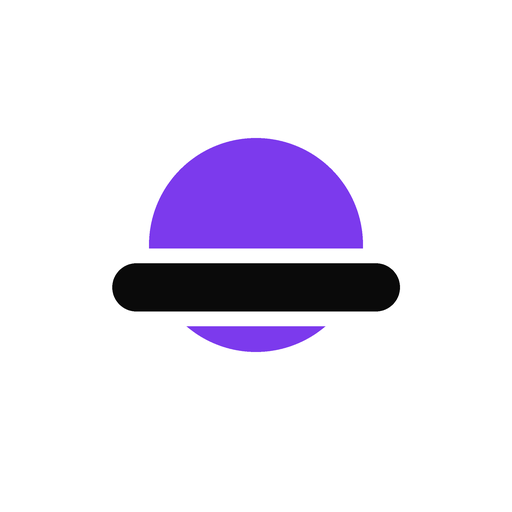
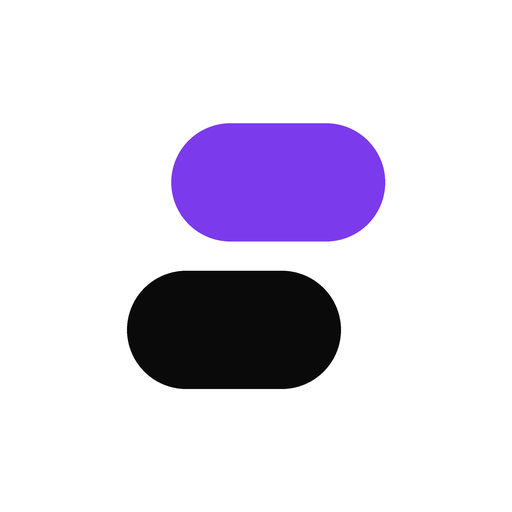
brand: new two-layers mark
Two offset pills forming an abstract S (violet request in, black reply out),
replacing the sun-behind-the-bar. Generated by scripts/make_brand_assets.py;
favicons, app icons, social card, logos and extension icons regenerated.
The light logo uses a white lower pill on dark backgrounds.

Changed region(s): [[0.2188, 0.2188, 0.7812, 0.7812]]

diff --git a/scripts/make_brand_assets.py b/scripts/make_brand_assets.py
@@ -39,10 +39,11 @@ WHITE = "#FFFFFF"
 
 FONT_STACK = "'Google Sans', 'Segoe UI', Inter, system-ui, -apple-system, Roboto, Arial, sans-serif"
 
-# Geometry in a 100-unit box.
-SUN_C, SUN_R = (50, 47), 29  # full disc; the bar hides a band of it
-BAR = (11, 52, 89, 65)  # pill wider than the sun (height 13, radius 6.5)
-GAP = 4  # clear space between the bar and the visible parts of the sun
+# Geometry in a 100-unit box. The "two layers" mark (Oct 2026): two offset pills forming an
+# abstract S. The violet pill is the request guarded on the way in, the black one the reply
+# on the way out. (x0, y0, x1, y1); each pill is 58 x 32 with fully round ends.
+TOP = (27, 14, 85, 46)
+BOTTOM = (15, 54, 73, 86)
 BRACKET_W = 9
 
 
@@ -51,18 +52,15 @@ BRACKET_W = 9
 # --------------------------------------------------------------------------
 
 
-def mark_body(x: float = 0, y: float = 0, s: float = 100, uid: str = "m") -> str:
+def mark_body(x: float = 0, y: float = 0, s: float = 100, bottom: str = GREEN) -> str:
+    """The two-layers mark. GREEN names the dark pill (ink), SAFFRON the violet one."""
     k = s / 100
-    cx, cy = SUN_C
-    x0, y0, x1, y1 = BAR
-    return (
-        f'<g transform="translate({x} {y}) scale({k})">'
-        f'<defs><clipPath id="{uid}"><rect x="0" y="0" width="100" height="{y0 - GAP}"/>'
-        f'<rect x="0" y="{y1 + GAP}" width="100" height="{100 - y1 - GAP}"/></clipPath></defs>'
-        f'<circle cx="{cx}" cy="{cy}" r="{SUN_R}" fill="{SAFFRON}" clip-path="url(#{uid})"/>'
-        f'<rect x="{x0}" y="{y0}" width="{x1 - x0}" height="{y1 - y0}" rx="{(y1 - y0) / 2}" fill="{GREEN}"/>'
-        "</g>"
+    pills = ((TOP, SAFFRON), (BOTTOM, bottom))
+    rects = "".join(
+        f'<rect x="{x0}" y="{y0}" width="{x1 - x0}" height="{y1 - y0}" rx="{(y1 - y0) / 2}" fill="{c}"/>'
+        for (x0, y0, x1, y1), c in pills
     )
+    return f'<g transform="translate({x} {y}) scale({k})">{rects}</g>'
 
 
 def saaf_body(x: float = 0, y: float = 0, s: float = 100) -> str:
@@ -95,7 +93,7 @@ def write_svgs() -> None:
     (BRAND / "safearly-mark.svg").write_text(svg(100, 100, mark_body(), "Safearly"), encoding="utf-8")
     (BRAND / "saaf-mark.svg").write_text(svg(100, 100, saaf_body(), "Saaf"), encoding="utf-8")
     for name, color in (("safearly-logo.svg", INK), ("safearly-logo-light.svg", WHITE)):
-        body = mark_body(0, 0, 56) + wordmark(62, 38, 32, "safearly", color)
+        body = mark_body(0, 0, 56, bottom=color) + wordmark(62, 38, 32, "safearly", color)
         (BRAND / name).write_text(svg(200, 56, body, "Safearly"), encoding="utf-8")
     lockup = saaf_body(0, 0, 56) + wordmark(62, 36, 30, "Saaf", INK) + wordmark(129, 36, 15, "by Safearly", GREY, 500)
     (BRAND / "saaf-lockup.svg").write_text(svg(220, 56, lockup, "Saaf by Safearly"), encoding="utf-8")
@@ -116,18 +114,9 @@ def _rgb(hex_: str, a: int = 255) -> tuple[int, int, int, int]:
 
 def draw_mark(img: Image.Image, x: float, y: float, s: float) -> None:
     k = s / 100
-    cx, cy = SUN_C
-    x0, y0, x1, y1 = BAR
-    sun = Image.new("RGBA", img.size, (0, 0, 0, 0))
-    sd = ImageDraw.Draw(sun)
-    sd.ellipse(
-        [x + (cx - SUN_R) * k, y + (cy - SUN_R) * k, x + (cx + SUN_R) * k, y + (cy + SUN_R) * k], fill=_rgb(SAFFRON)
-    )
-    sd.rectangle([x, y + (y0 - GAP) * k, x + s, y + (y1 + GAP) * k], fill=(0, 0, 0, 0))  # band behind the bar
-    img.alpha_composite(sun)
-    ImageDraw.Draw(img).rounded_rectangle(
-        [x + x0 * k, y + y0 * k, x + x1 * k, y + y1 * k], radius=(y1 - y0) / 2 * k, fill=_rgb(GREEN)
-    )
+    d = ImageDraw.Draw(img)
+    for (x0, y0, x1, y1), c in ((TOP, SAFFRON), (BOTTOM, GREEN)):
+        d.rounded_rectangle([x + x0 * k, y + y0 * k, x + x1 * k, y + y1 * k], radius=(y1 - y0) / 2 * k, fill=_rgb(c))
 
 
 def draw_saaf(img: Image.Image, x: float, y: float, s: float) -> None:

diff --git a/docs/brand.md b/docs/brand.md
@@ -7,16 +7,16 @@
 | First product | **Saaf** (साफ़, "clean"). On first mention write "Saaf by Safearly". Tagline *Clean prompts. Caught early.* |
 | Saaf one-liner | India-first PII masking and restore for LLM traffic. |
 
-## The mark: "the sun behind the bar"
+## The mark: "two layers"
 
-A violet sun, partly hidden behind a black rounded bar. (Until October 2026 the mark was a saffron sun behind a green bar; the shapes are unchanged.)
+Two offset pills that form an abstract S: a violet pill above and to the right, a black pill below and to the left.
 
-- **Sun = early.** It sits mostly above the bar, so it reads as rising.
-- **Bar = safe.** It is the redaction mask Saaf puts over a value. The sun is still recognisable behind it, the way a masked prompt is still useful to the model.
-- **A sliver of sun below the bar** shows it is *behind* the mask rather than resting on it. This is what makes the silhouette unique: not a hat, not a sunset icon.
-- Two shapes, two flat colours, no container. It reads at 16px and can be drawn from memory.
+- **Two layers = the product.** Safearly sits between an application and its models: the violet pill is the request guarded on the way in, the black one the reply on the way out.
+- **The offset = speed.** The layers step forward rather than stacking square, so the mark reads as motion, not a wall.
+- **The S** is there for Safearly without spelling it out.
+- Two shapes, two flat colours, no container. It reads at 16px and can be drawn from memory. On dark backgrounds the black pill turns white.
 
-Rejected alternatives, kept for the record: a sun resting on a bar (read as a hat, then as a burger), a striped retro sun (a common motif, and its stripes vanish below 32px), and a sunrise with rays (a generic weather icon).
+Earlier marks, kept for the record: a sun partly hidden behind a bar (saffron and green until Oct 2026, then violet and black), retired for the two-layers mark when Safearly repositioned around inference, guardrails and agents.
 
 **Saaf product mark:** brackets around the same pill, `[▬]`, a token. It shares its DNA with the company mark.
 
